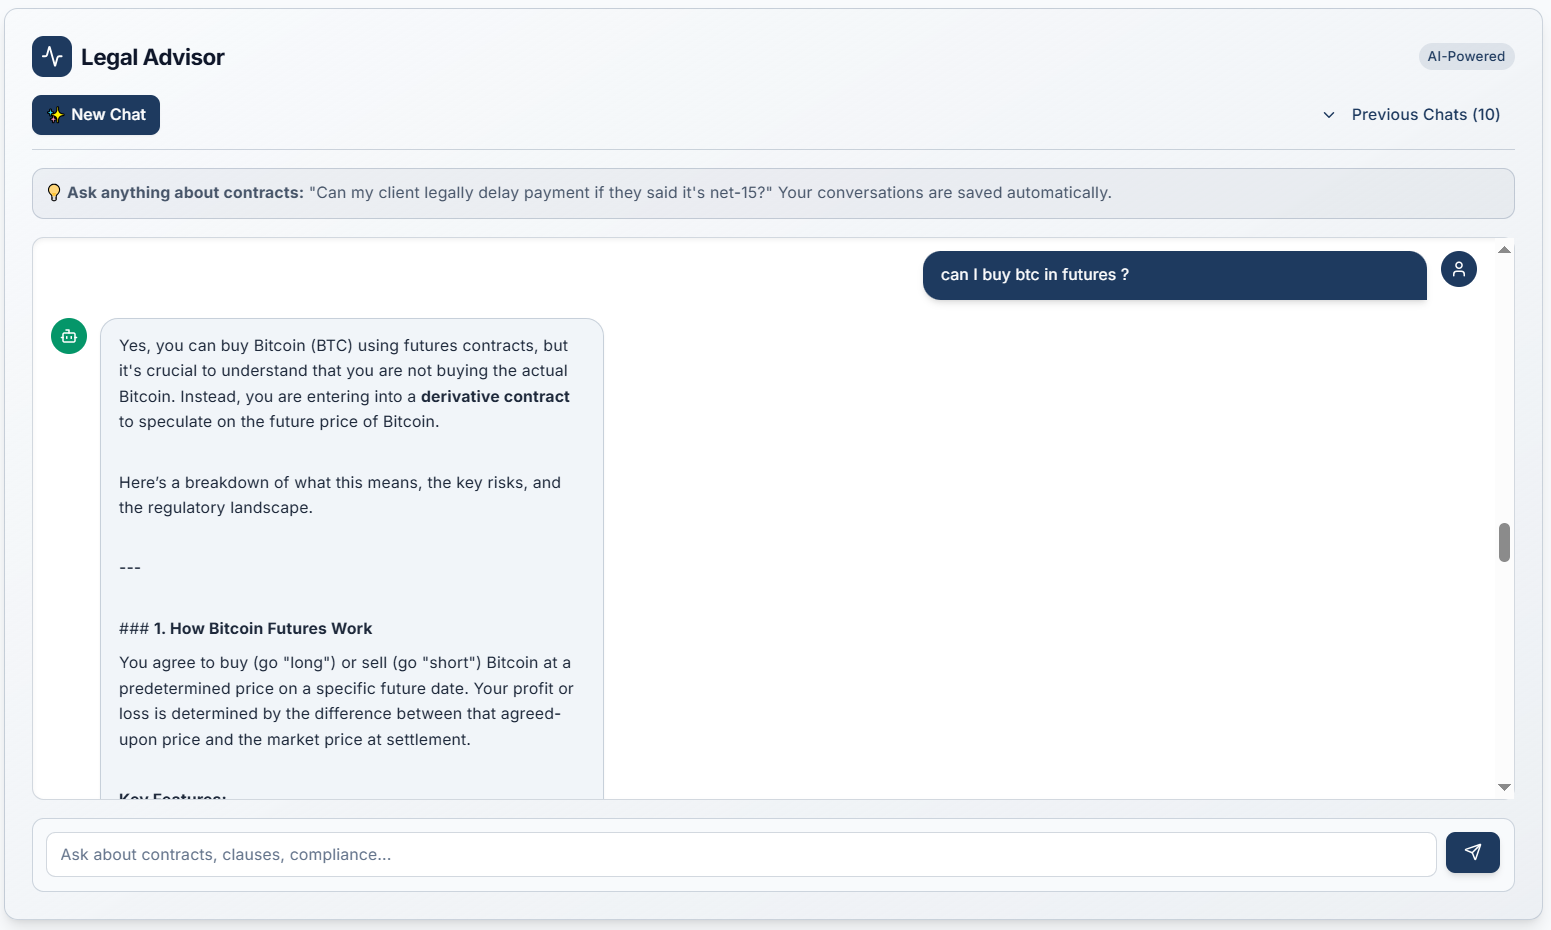
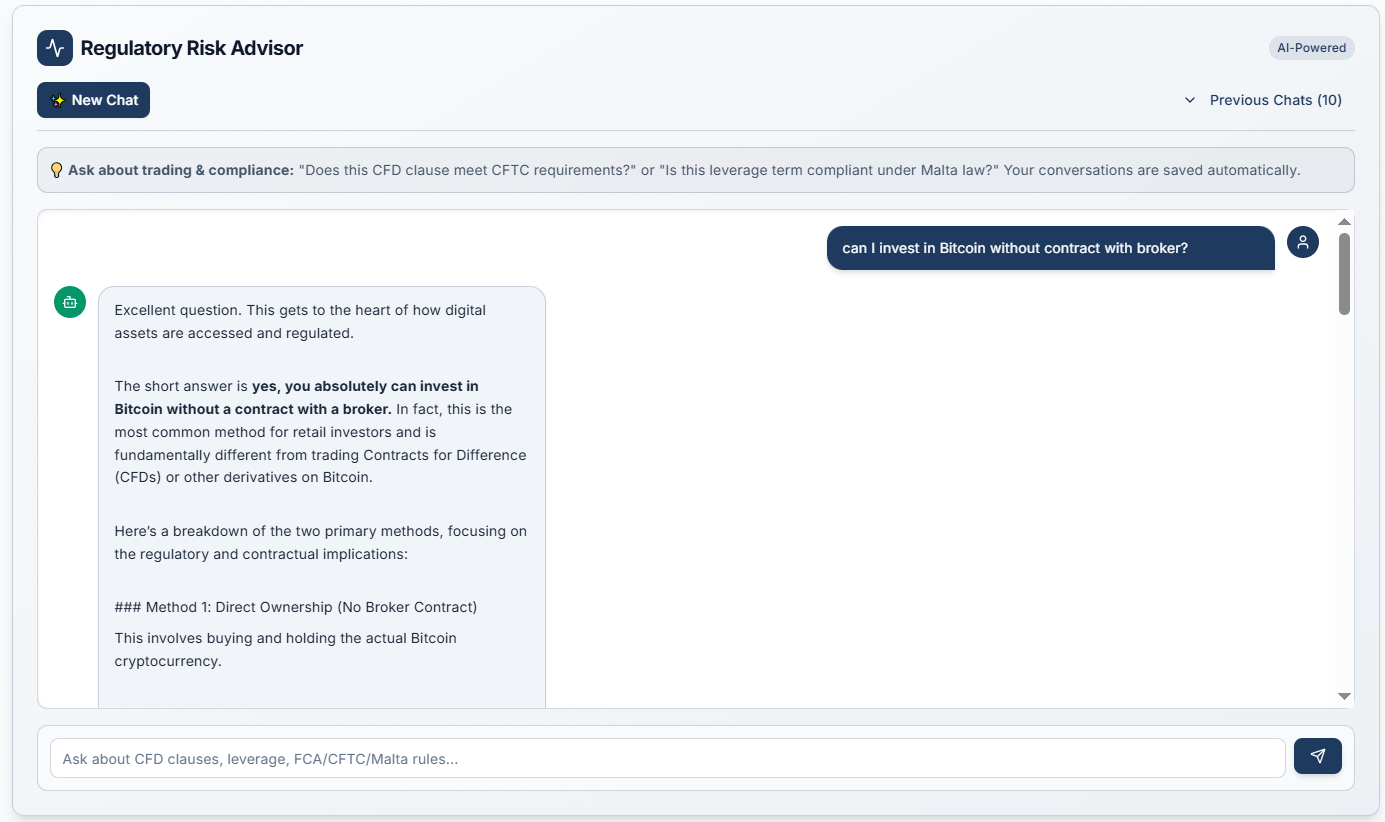
update

diff --git a/src/pages/Features.tsx b/src/pages/Features.tsx
@@ -200,7 +200,7 @@ const Features = () => {
                       value="chat" 
                       className="flex-1 text-sm py-3 px-1 font-medium text-gray-600 rounded-none border-b-2 border-transparent data-[state=active]:border-legal-primary data-[state=active]:text-legal-primary transition-all duration-300"
                     >
-                      <span className="whitespace-nowrap">Legal Chat</span>
+                      <span className="whitespace-nowrap">Regulatory Chat</span>
                     </TabsTrigger>
                     <TabsTrigger 
                       value="disputes" 
@@ -235,7 +235,7 @@ const Features = () => {
                       value="chat" 
                       className="flex-1 text-base lg:text-lg py-4 px-2 font-medium text-gray-600 rounded-none border-b-2 border-transparent data-[state=active]:border-legal-primary data-[state=active]:text-legal-primary transition-all duration-300"
                     >
-                      Legal Chat
+                      Regulatory Chat
                     </TabsTrigger>
                     <TabsTrigger 
                       value="disputes" 
@@ -518,7 +518,7 @@ const Features = () => {
                       Contextual Advice
                     </h3>
                     <p className="text-legal-muted mb-6 text-base md:text-lg">
-                      Receive tailored legal advice based on your specific situation, industry, and jurisdiction requirements.
+                      Receive tailored regulatory guidance based on your trading scenario, industry, and jurisdiction requirements.
                     </p>
                     <ul className="space-y-3 text-base md:text-lg">
                       <li className="flex items-start">
@@ -606,7 +606,7 @@ const Features = () => {
                       Regional Legal Guidance
                     </h3>
                     <p className="text-legal-muted mb-6 text-base md:text-lg">
-                      Get specific legal advice tailored to your jurisdiction, including local laws, regulations, and business practices.
+                      Get specific regulatory guidance tailored to your jurisdiction, including local trading laws, regulations, and best practices.
                     </p>
                     <ul className="space-y-3 text-base md:text-lg">
                       <li className="flex items-start">
@@ -738,7 +738,7 @@ const Features = () => {
                     </div>
                   </div>
                   <p className="text-legal-muted italic mb-8 text-base md:text-lg">
-                    "The complete legal suite is incredible. Contract analysis, NDA generation, and legal chat all in one platform has revolutionized our workflow."
+                    "The complete trading compliance suite is incredible. Contract analysis, NDA generation, and regulatory chat all in one platform has revolutionized our workflow."
                   </p>
                   <div className="flex items-center">
                     <div className="h-12 w-12 rounded-full bg-legal-primary/20 flex items-center justify-center mr-4">
@@ -819,14 +819,14 @@ const Features = () => {
                 <AccordionItem value="item-1" className="border border-gray-200 rounded-lg mb-4 overflow-hidden">
                   <AccordionTrigger className="text-left text-base md:text-lg font-semibold bg-gray-50 hover:bg-gray-100 px-6 py-4 transition-all">What tools are included in the complete legal suite?</AccordionTrigger>
                   <AccordionContent className="text-base md:text-lg p-6 bg-white">
-                    Our complete legal suite includes five AI-powered tools: Contract Analysis & Review, Auto NDA & Agreement Generator, Legal Advice Chat, Email-Based Dispute Response, and Jurisdiction-Based Suggestions. Each tool is designed to handle specific legal document needs with professional accuracy.
+                    Our complete trading compliance suite includes five AI-powered tools: Contract Analysis & Review, Compliant Agreement Generator, Regulatory Risk Chat, Email-Based Dispute Response, and Jurisdiction-Specific Rules. Each tool is designed to handle specific trading and compliance document needs with professional accuracy.
                   </AccordionContent>
                 </AccordionItem>
                 
                 <AccordionItem value="item-2" className="border border-gray-200 rounded-lg mb-4 overflow-hidden">
                   <AccordionTrigger className="text-left text-base md:text-lg font-semibold bg-gray-50 hover:bg-gray-100 px-6 py-4 transition-all">Which tools require a subscription?</AccordionTrigger>
                   <AccordionContent className="text-base md:text-lg p-6 bg-white">
-                    The Contract Analysis tool is available across all plans. However, the Auto NDA & Agreement Generator, Legal Advice Chat, Email-Based Dispute Response, and Jurisdiction-Based Suggestions are premium features that require a Monthly Subscription plan for full access.
+                    The Contract Analysis tool is available across all plans. However, the Compliant Agreement Generator, Regulatory Risk Chat, Email-Based Dispute Response, and Jurisdiction-Specific Rules are premium features that require a Monthly Subscription plan for full access.
                   </AccordionContent>
                 </AccordionItem>
 
@@ -841,7 +841,7 @@ const Features = () => {
                 <AccordionItem value="item-5" className="border border-gray-200 rounded-lg mb-4 overflow-hidden">
                   <AccordionTrigger className="text-left text-base md:text-lg font-semibold bg-gray-50 hover:bg-gray-100 px-6 py-4 transition-all">Can I try all tools before subscribing?</AccordionTrigger>
                   <AccordionContent className="text-base md:text-lg p-6 bg-white">
-                    Yes! We offer a free trial that includes one complete contract analysis. To access the premium tools (NDA Generator, Legal Chat, Dispute Response, and Jurisdiction Suggestions), you'll need to upgrade to our Monthly Subscription plan, which gives you unlimited access to all tools.
+                    Yes! We offer a free trial that includes one complete contract analysis. To access the premium tools (Agreement Generator, Regulatory Chat, Dispute Response, and Jurisdiction Rules), you'll need to upgrade to our Monthly Subscription plan, which gives you unlimited access to all tools.
                   </AccordionContent>
                 </AccordionItem>
               </Accordion>

diff --git a/src/components/dashboard/LegalAdviceChatWidget.tsx b/src/components/dashboard/LegalAdviceChatWidget.tsx
@@ -252,7 +252,7 @@ export default function LegalAdviceChatWidget() {
         <div className="bg-legal-primary p-2 rounded-lg">
           <Activity className="h-5 w-5 text-white" />
         </div>
-        <h3 className="text-xl font-bold text-slate-900">Legal Advisor</h3>
+        <h3 className="text-xl font-bold text-slate-900">Regulatory Risk Advisor</h3>
         <span className="text-xs bg-legal-primary/10 text-legal-primary px-2 py-1 rounded-full font-medium ml-auto">AI-Powered</span>
       </div>
       {/* Action Buttons */}
@@ -299,7 +299,7 @@ export default function LegalAdviceChatWidget() {
 
       {/* Instruction Text */}
       <p className="text-sm text-slate-600 mb-4 bg-legal-primary/5 rounded-lg p-3 border border-legal-primary/20">
-        💡 <strong>Ask anything about contracts:</strong> "Can my client legally delay payment if they said it's net-15?" Your conversations are saved automatically.
+        💡 <strong>Ask about trading & compliance:</strong> "Does this CFD clause meet CFTC requirements?" or "Is this leverage term compliant under Malta law?" Your conversations are saved automatically.
       </p>
       
       {/* Chat Container */}
@@ -312,7 +312,7 @@ export default function LegalAdviceChatWidget() {
           <div className="h-full flex items-center justify-center">
             <div className="text-center">
               <Bot className="h-12 w-12 text-slate-300 mx-auto mb-2" />
-              <p className="text-slate-400 text-sm">Start a conversation to get legal insights...</p>
+              <p className="text-slate-400 text-sm">Ask about trading compliance, leverage rules, and jurisdiction-specific regulations...</p>
             </div>
           </div>
         )}
@@ -360,7 +360,7 @@ export default function LegalAdviceChatWidget() {
         <Input 
           value={question} 
           onChange={e => setQuestion(e.target.value)} 
-          placeholder="Ask about contracts, clauses, compliance..." 
+          placeholder="Ask about CFD clauses, leverage, FCA/CFTC/Malta rules..." 
           onKeyDown={e => {
             if (e.key === "Enter" && !loading) handleSend();
           }} 

diff --git a/src/components/common/PremiumFeatureGuard.tsx b/src/components/common/PremiumFeatureGuard.tsx
@@ -60,10 +60,10 @@ export default function PremiumFeatureGuard({
               Upgrade to Premium Subscription to access:
             </p>
             <ul className="text-sm text-gray-600 space-y-1">
-              <li>• Auto NDA & Agreement Generator</li>
-              <li>• Legal Advice Chat</li>
+              <li>• Compliant Agreement Generator</li>
+              <li>• Regulatory Risk Chat</li>
               <li>• Email Dispute Response</li>
-              <li>• Jurisdiction-Based Suggestions</li>
+              <li>• Jurisdiction-Specific Rules</li>
               <li>• Unlimited Contract Analysis</li>
             </ul>
           </div>
